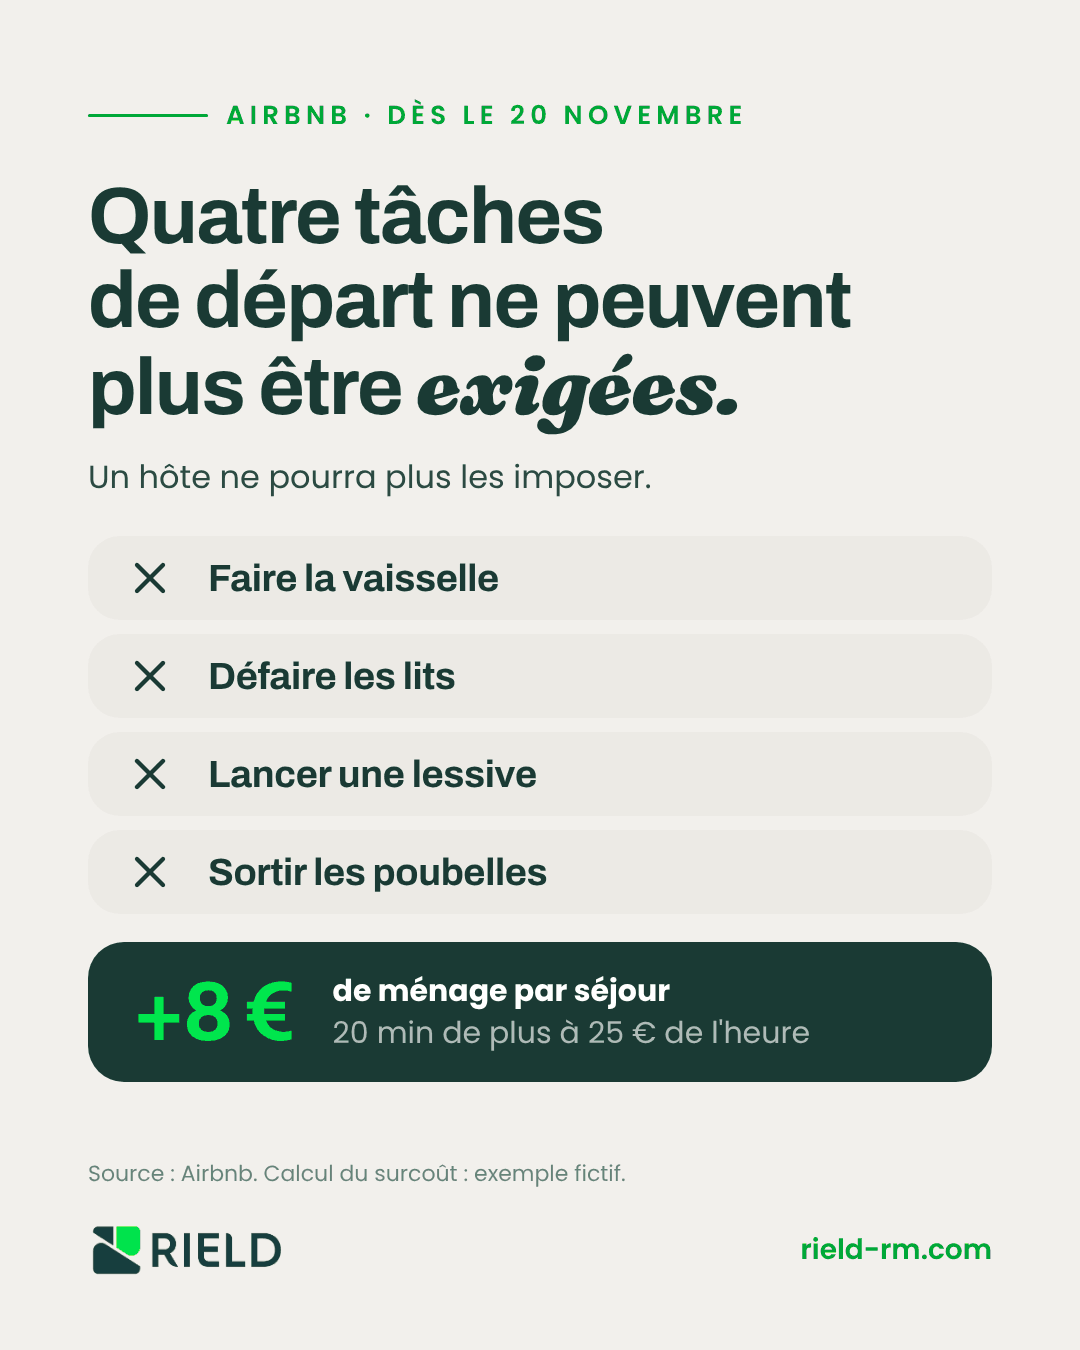
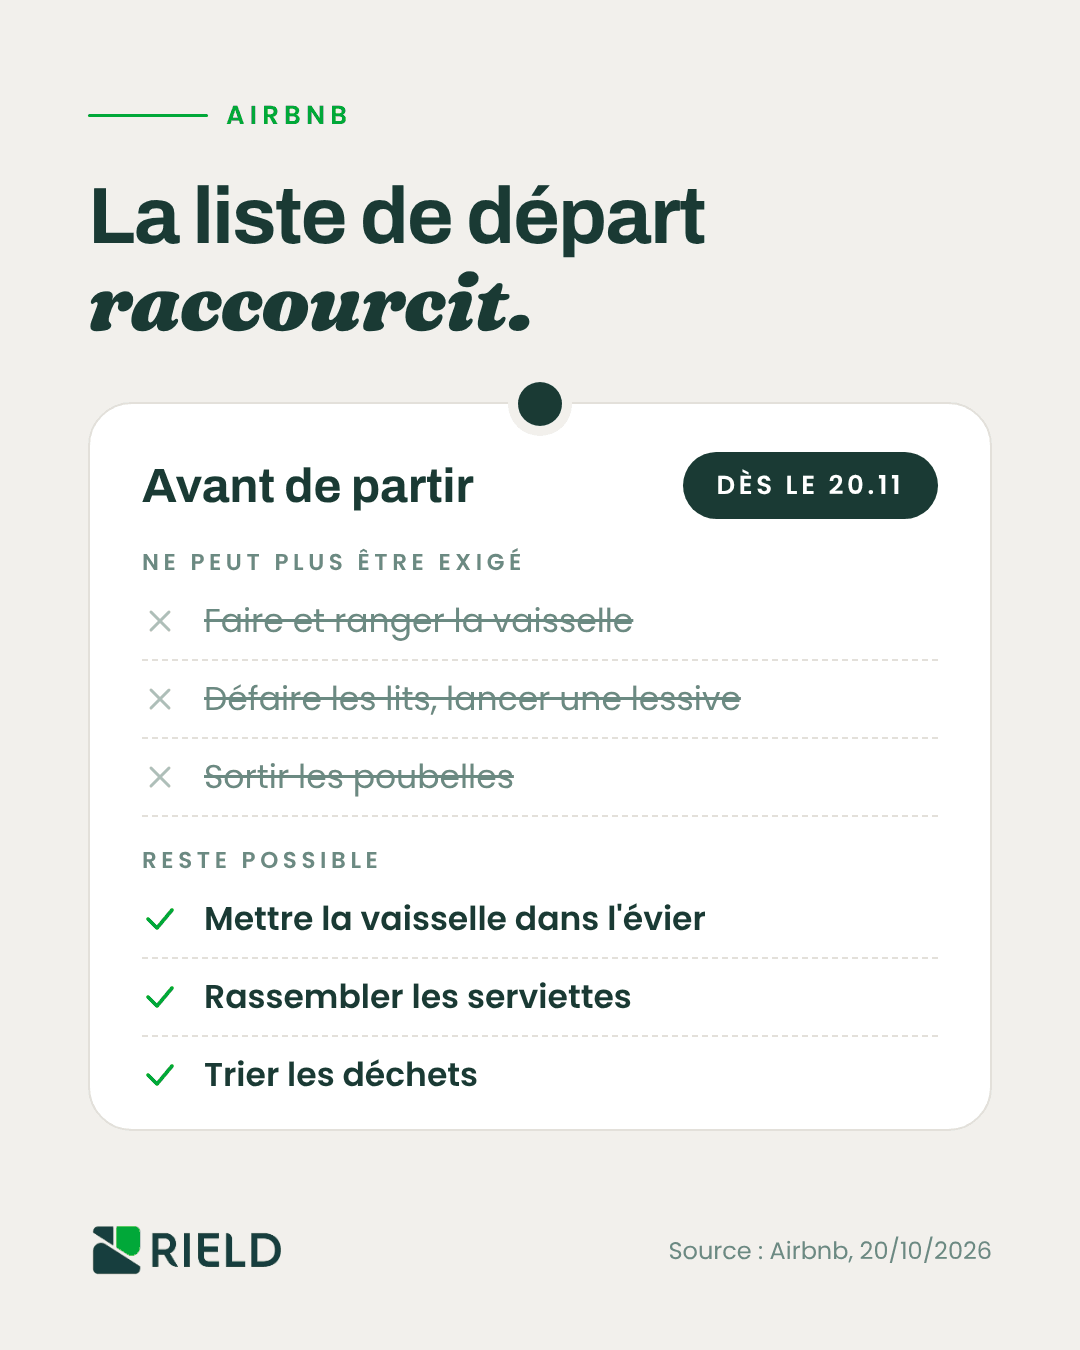
Visuel Airbnb tâches de départ : version checklist

diff --git a/kit/sources/airbnb-taches-depart.html b/kit/sources/airbnb-taches-depart.html
@@ -1,24 +1,33 @@
 <!doctype html><html><head><meta charset="utf-8"><link rel="stylesheet" href="base.css">
 <style>
-.list{display:flex;flex-direction:column;gap:14px;margin-top:36px}
-.it{display:flex;align-items:center;gap:32px;background:var(--surface);border-radius:32px;padding:16px 36px;font-family:var(--font-title);font-weight:700;font-size:38px;letter-spacing:-.01em}
-.it svg{width:52px;height:52px;flex:none;color:var(--fg-1)}
-.fx{display:flex;align-items:center;gap:40px;background:var(--dark);color:#fff;border-radius:36px;padding:28px 44px;margin-top:28px}
-.fx .big{font-size:84px;color:var(--lime)}
-.fx .cap{margin:0;color:var(--on-dark-soft);font-size:30px}
+.ck{position:relative;background:#fff;border:2px solid #E3E0DA;border-radius:44px;padding:48px 52px 16px;margin-top:56px}
+.pin{position:absolute;left:50%;top:-22px;width:44px;height:44px;margin-left:-22px;border-radius:50%;background:var(--dark);box-shadow:0 0 0 10px var(--canvas)}
+.hd{display:flex;justify-content:space-between;align-items:center}
+.hd b{font-family:var(--font-title);font-weight:700;font-size:48px}
+.pill{background:var(--dark);color:#fff;border-radius:40px;padding:14px 34px;font-weight:600;font-size:26px;letter-spacing:.14em}
+.sec{font-weight:600;font-size:23px;letter-spacing:.2em;text-transform:uppercase;color:var(--fg-3);margin:26px 0 4px}
+.r{display:flex;align-items:center;gap:26px;padding:13px 0;border-bottom:2px dashed #E3E0DA;font-size:33px}
+.r:last-child{border-bottom:0}
+.r svg{width:36px;height:36px;flex:none}
+.no{color:var(--fg-3);text-decoration:line-through}
+.no svg{color:#B8B8B0}
+.ok{font-weight:600;color:var(--fg-1)}
+.ok svg{color:var(--lime-muted)}
 </style></head><body>
 <section class="slide light">
-  <div class="label"><span class="rule"></span>Airbnb · Dès le 20 novembre</div>
-  <h1 style="margin-top:40px;font-size:80px">Quatre tâches<br>de départ ne peuvent<br>plus être <em>exigées.</em></h1>
-  <p class="lead" style="margin-top:24px;font-size:32px">Un hôte ne pourra plus les imposer.</p>
-  <div class="list">
-    <div class="it"><svg viewBox="0 0 24 24" fill="none" stroke="currentColor" stroke-width="2" stroke-linecap="round" stroke-linejoin="round"><line x1="6" y1="6" x2="18" y2="18"/><line x1="18" y1="6" x2="6" y2="18"/></svg>Faire la vaisselle</div>
-    <div class="it"><svg viewBox="0 0 24 24" fill="none" stroke="currentColor" stroke-width="2" stroke-linecap="round" stroke-linejoin="round"><line x1="6" y1="6" x2="18" y2="18"/><line x1="18" y1="6" x2="6" y2="18"/></svg>Défaire les lits</div>
-    <div class="it"><svg viewBox="0 0 24 24" fill="none" stroke="currentColor" stroke-width="2" stroke-linecap="round" stroke-linejoin="round"><line x1="6" y1="6" x2="18" y2="18"/><line x1="18" y1="6" x2="6" y2="18"/></svg>Lancer une lessive</div>
-    <div class="it"><svg viewBox="0 0 24 24" fill="none" stroke="currentColor" stroke-width="2" stroke-linecap="round" stroke-linejoin="round"><line x1="6" y1="6" x2="18" y2="18"/><line x1="18" y1="6" x2="6" y2="18"/></svg>Sortir les poubelles</div>
+  <div class="label"><span class="rule"></span>Airbnb</div>
+  <h1 style="margin-top:40px;font-size:80px">La liste de départ<br><em>raccourcit.</em></h1>
+  <div class="ck"><div class="pin"></div>
+    <div class="hd"><b>Avant de partir</b><span class="pill">DÈS LE 20.11</span></div>
+    <div class="sec">Ne peut plus être exigé</div>
+    <div class="r no"><svg viewBox="0 0 24 24" fill="none" stroke="currentColor" stroke-width="2" stroke-linecap="round" stroke-linejoin="round"><line x1="6" y1="6" x2="18" y2="18"/><line x1="18" y1="6" x2="6" y2="18"/></svg> Faire et ranger la vaisselle</div>
+    <div class="r no"><svg viewBox="0 0 24 24" fill="none" stroke="currentColor" stroke-width="2" stroke-linecap="round" stroke-linejoin="round"><line x1="6" y1="6" x2="18" y2="18"/><line x1="18" y1="6" x2="6" y2="18"/></svg> Défaire les lits, lancer une lessive</div>
+    <div class="r no"><svg viewBox="0 0 24 24" fill="none" stroke="currentColor" stroke-width="2" stroke-linecap="round" stroke-linejoin="round"><line x1="6" y1="6" x2="18" y2="18"/><line x1="18" y1="6" x2="6" y2="18"/></svg> Sortir les poubelles</div>
+    <div class="sec">Reste possible</div>
+    <div class="r ok"><svg viewBox="0 0 24 24" fill="none" stroke="currentColor" stroke-width="2.4" stroke-linecap="round" stroke-linejoin="round"><polyline points="4 12 10 18 20 6"/></svg> Mettre la vaisselle dans l'évier</div>
+    <div class="r ok"><svg viewBox="0 0 24 24" fill="none" stroke="currentColor" stroke-width="2.4" stroke-linecap="round" stroke-linejoin="round"><polyline points="4 12 10 18 20 6"/></svg> Rassembler les serviettes</div>
+    <div class="r ok"><svg viewBox="0 0 24 24" fill="none" stroke="currentColor" stroke-width="2.4" stroke-linecap="round" stroke-linejoin="round"><polyline points="4 12 10 18 20 6"/></svg> Trier les déchets</div>
   </div>
-  <div class="fx"><div class="big">+8 €</div><div class="cap"><b style="color:#fff">de ménage par séjour</b><br>20 min de plus à 25 € de l'heure</div></div>
-  <div class="src" style="position:absolute;left:88px;bottom:160px">Source : Airbnb. Calcul du surcoût : exemple fictif.</div>
-  <div class="footer"><div><img class="logo logo-dark" src="logo/rield-logo-inverse.png" alt="Rield"><img class="logo logo-light" src="logo/rield-logo-couleur.png" alt="Rield"></div><div class="site">rield-rm.com</div></div>
+  <div class="footer"><div><img class="logo logo-dark" src="logo/rield-logo-inverse.png" alt="Rield"><img class="logo logo-light" src="logo/rield-logo-couleur.png" alt="Rield"></div><div class="src" style="font-size:24px">Source : Airbnb, 20/10/2026</div></div>
 </section>
 </body></html>
